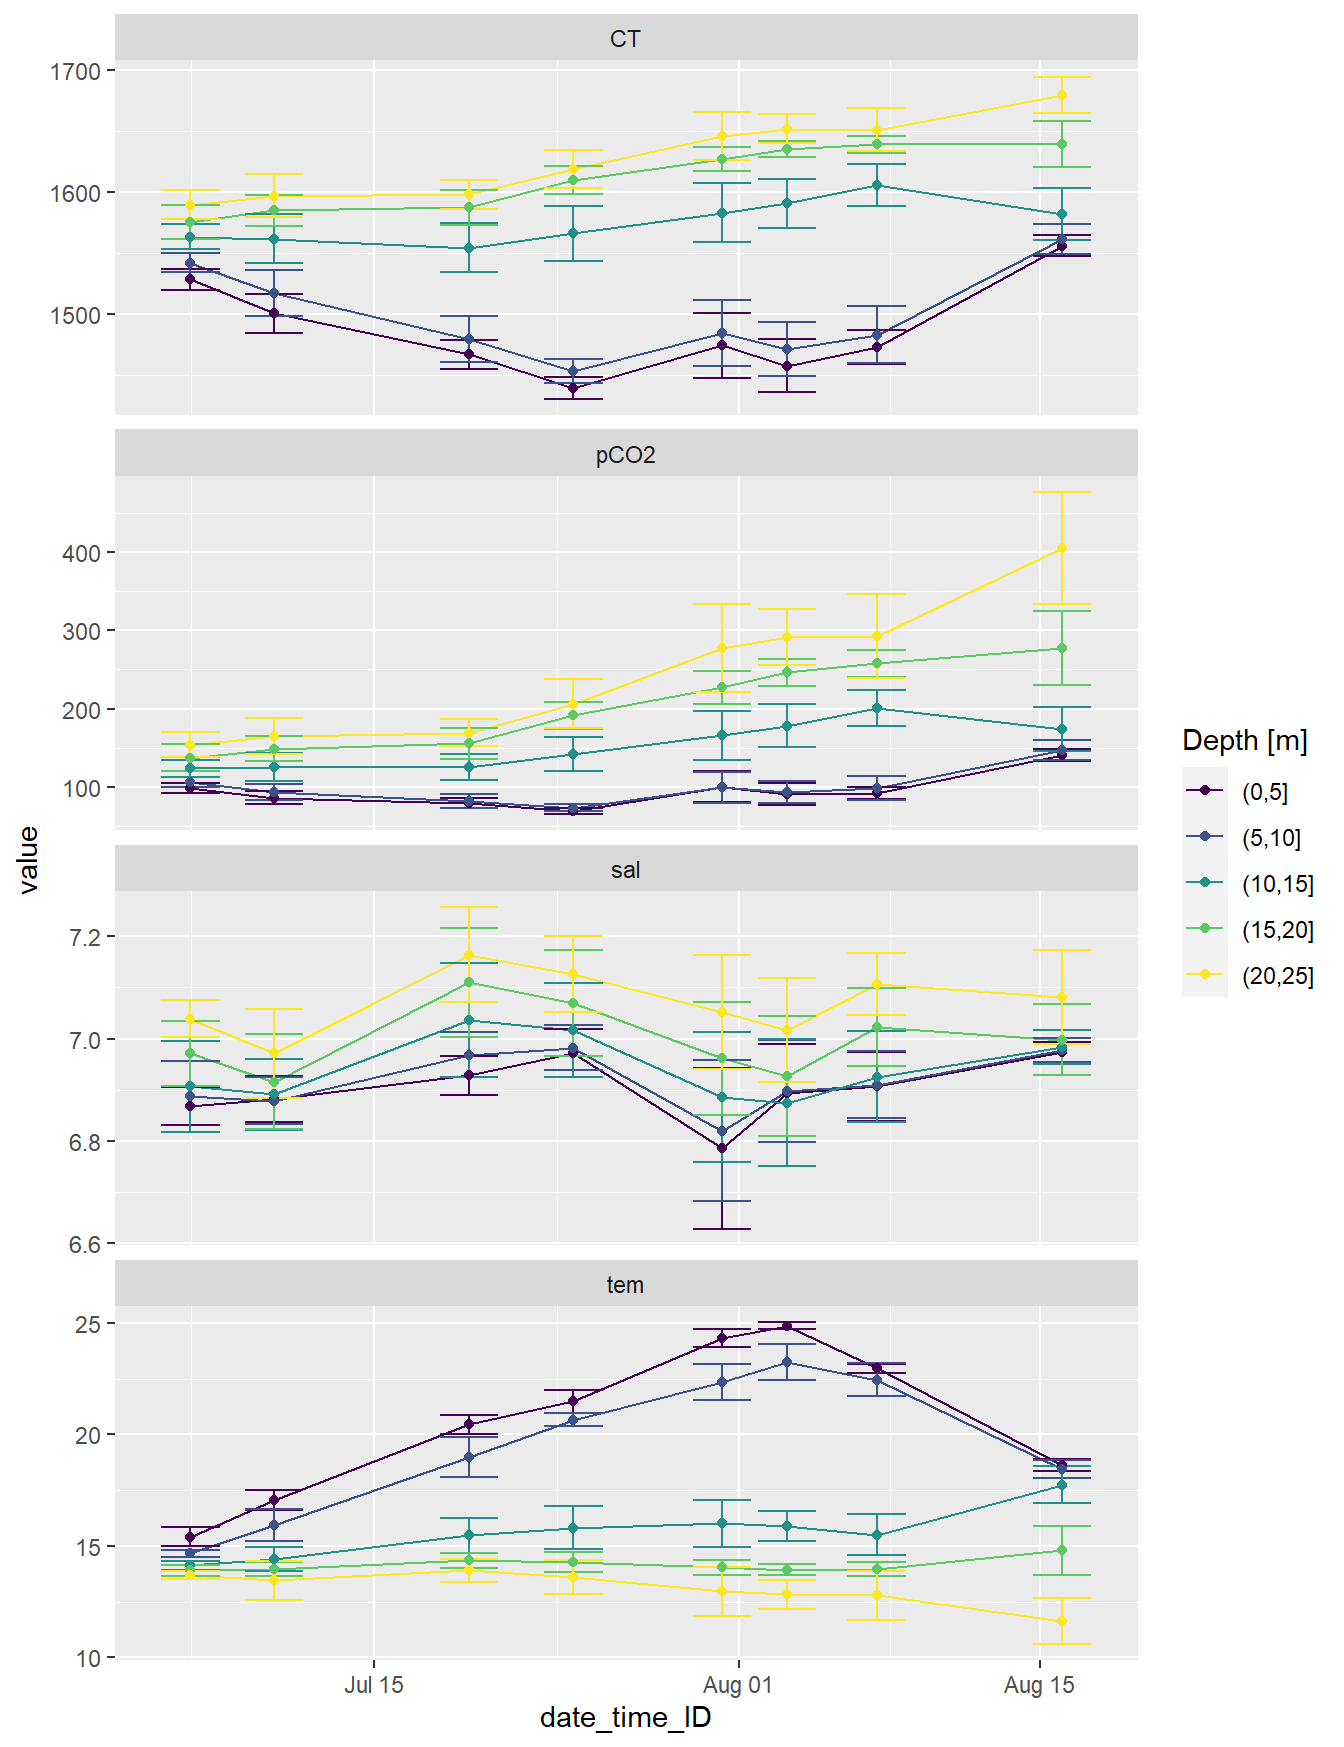
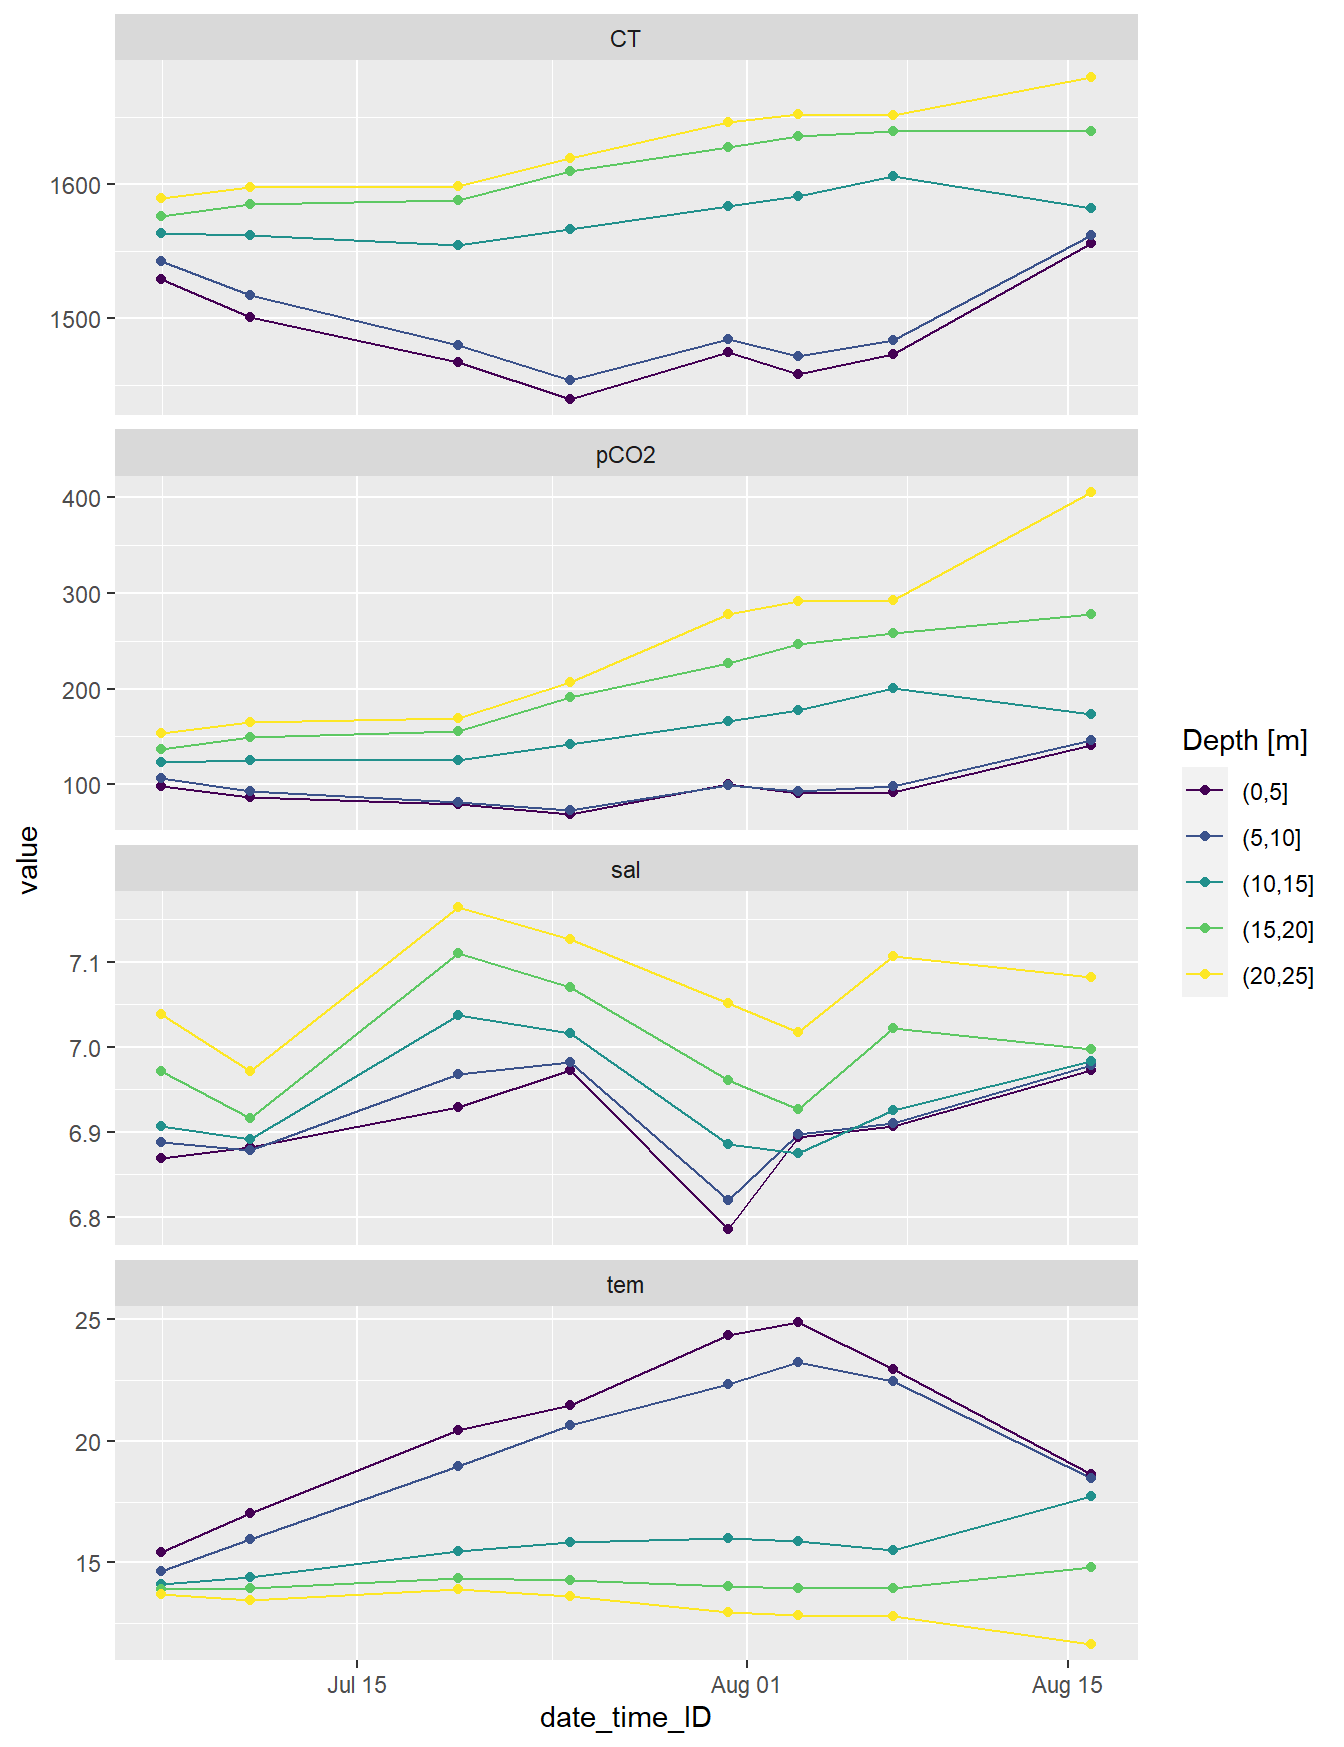
Build site.

diff --git a/docs/CT_dynamics.html b/docs/CT_dynamics.html
@@ -539,10 +539,10 @@ This reproducible <a href="http://rmarkdown.rstudio.com">R Markdown</a> analysis
 <div class="panel panel-default">
 <div class="panel-heading">
 <p class="panel-title">
-<a data-toggle="collapse" data-parent="#workflowr-checks" href="#strongRepositoryversionstrongahrefhttpsgithubcomjensdanielmuellerBloomSailtree0d90486bf4dfa8339efd75a5224abea71f1db69atargetblank0d90486a"> <span class="glyphicon glyphicon-ok text-success" aria-hidden="true"></span> <strong>Repository version:</strong> <a href="https://github.com/jens-daniel-mueller/BloomSail/tree/0d90486bf4dfa8339efd75a5224abea71f1db69a" target="_blank">0d90486</a> </a>
+<a data-toggle="collapse" data-parent="#workflowr-checks" href="#strongRepositoryversionstrongahrefhttpsgithubcomjensdanielmuellerBloomSailtreeff79dbeb300e91cfed05ff14aa9ad345cb7dd5bbtargetblankff79dbea"> <span class="glyphicon glyphicon-ok text-success" aria-hidden="true"></span> <strong>Repository version:</strong> <a href="https://github.com/jens-daniel-mueller/BloomSail/tree/ff79dbeb300e91cfed05ff14aa9ad345cb7dd5bb" target="_blank">ff79dbe</a> </a>
 </p>
 </div>
[2 lines of base64/hex data omitted]
 <div class="panel-body">
 <p>
 Great! You are using Git for version control. Tracking code development and connecting the code version to the results is critical for reproducibility. The version displayed above was the version of the Git repository at the time these results were generated. <br><br> Note that you need to be careful to ensure that all relevant files for the analysis have been committed to Git prior to generating the results (you can use <code>wflow_publish</code> or <code>wflow_git_commit</code>). workflowr only checks the R Markdown file, but you know if there are other scripts or data files that it depends on. Below is the status of the Git repository when the results were generated:
@@ -961,9 +961,9 @@ mean_profiles_long %&gt;%
   scale_fill_viridis_d()+
   facet_grid(ID~parameter, scales = &quot;free_x&quot;)</code></pre>
 <div class="figure" style="text-align: center">
-<img src="figure/CT_dynamics.Rmd/plot_CT_profiles_individual-1.png" alt="Mean vertical profiles per cruise day across all stations plotted indivdually" width="672" />
+<img src="figure/CT_dynamics.Rmd/plot_CT_profiles_individual-1.png" alt="Mean vertical profiles per cruise day across all stations plotted indivdually. Ribbons indicate the standard deviation observed across all profiles at each depth and transect." width="672" />
 <p class="caption">
-Mean vertical profiles per cruise day across all stations plotted indivdually
+Mean vertical profiles per cruise day across all stations plotted indivdually. Ribbons indicate the standard deviation observed across all profiles at each depth and transect.
 </p>
 </div>
 </div>
@@ -1169,7 +1169,7 @@ mean_profiles_long %&gt;%
 timeseries %&gt;% 
   ggplot(aes(date_time_ID, value, col=as.factor(dep)))+
   geom_path()+
-  geom_errorbar(aes(date_time_ID, ymax=value+sd, ymin=value-sd, col=as.factor(dep)))+
+  #geom_errorbar(aes(date_time_ID, ymax=value+sd, ymin=value-sd, col=as.factor(dep)))+
   geom_point()+
   scale_color_viridis_d(name=&quot;Depth [m]&quot;)+
   facet_wrap(~parameter, scales = &quot;free_y&quot;, ncol=1)</code></pre>
